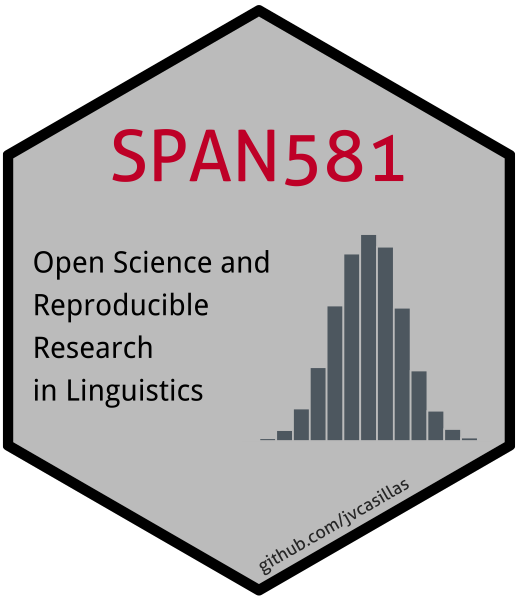
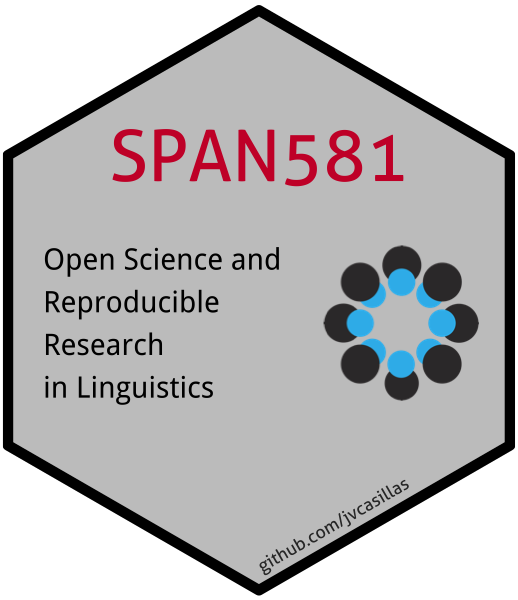
add 362 update open science

Changed region(s): [[0.5251, 0.39, 0.9266, 0.75], [0.0618, 0.39, 0.556, 0.6], [0.0618, 0.63, 0.4324, 0.69]]

diff --git a/README.md b/README.md
@@ -15,6 +15,12 @@ has changed a lot.
 
 <p align="center">
 
+<img src='stickers/intro_phonetics.png' width='200px'/>
+
+</p>
+
+<p align="center">
+
 <img src='stickers/osrrl.png' width='200px'/>
 
 </p>
@@ -30,4 +36,3 @@ has changed a lot.
   - untidydata
   - lingStuff
   - academicWriteR
-  - SPAN362
